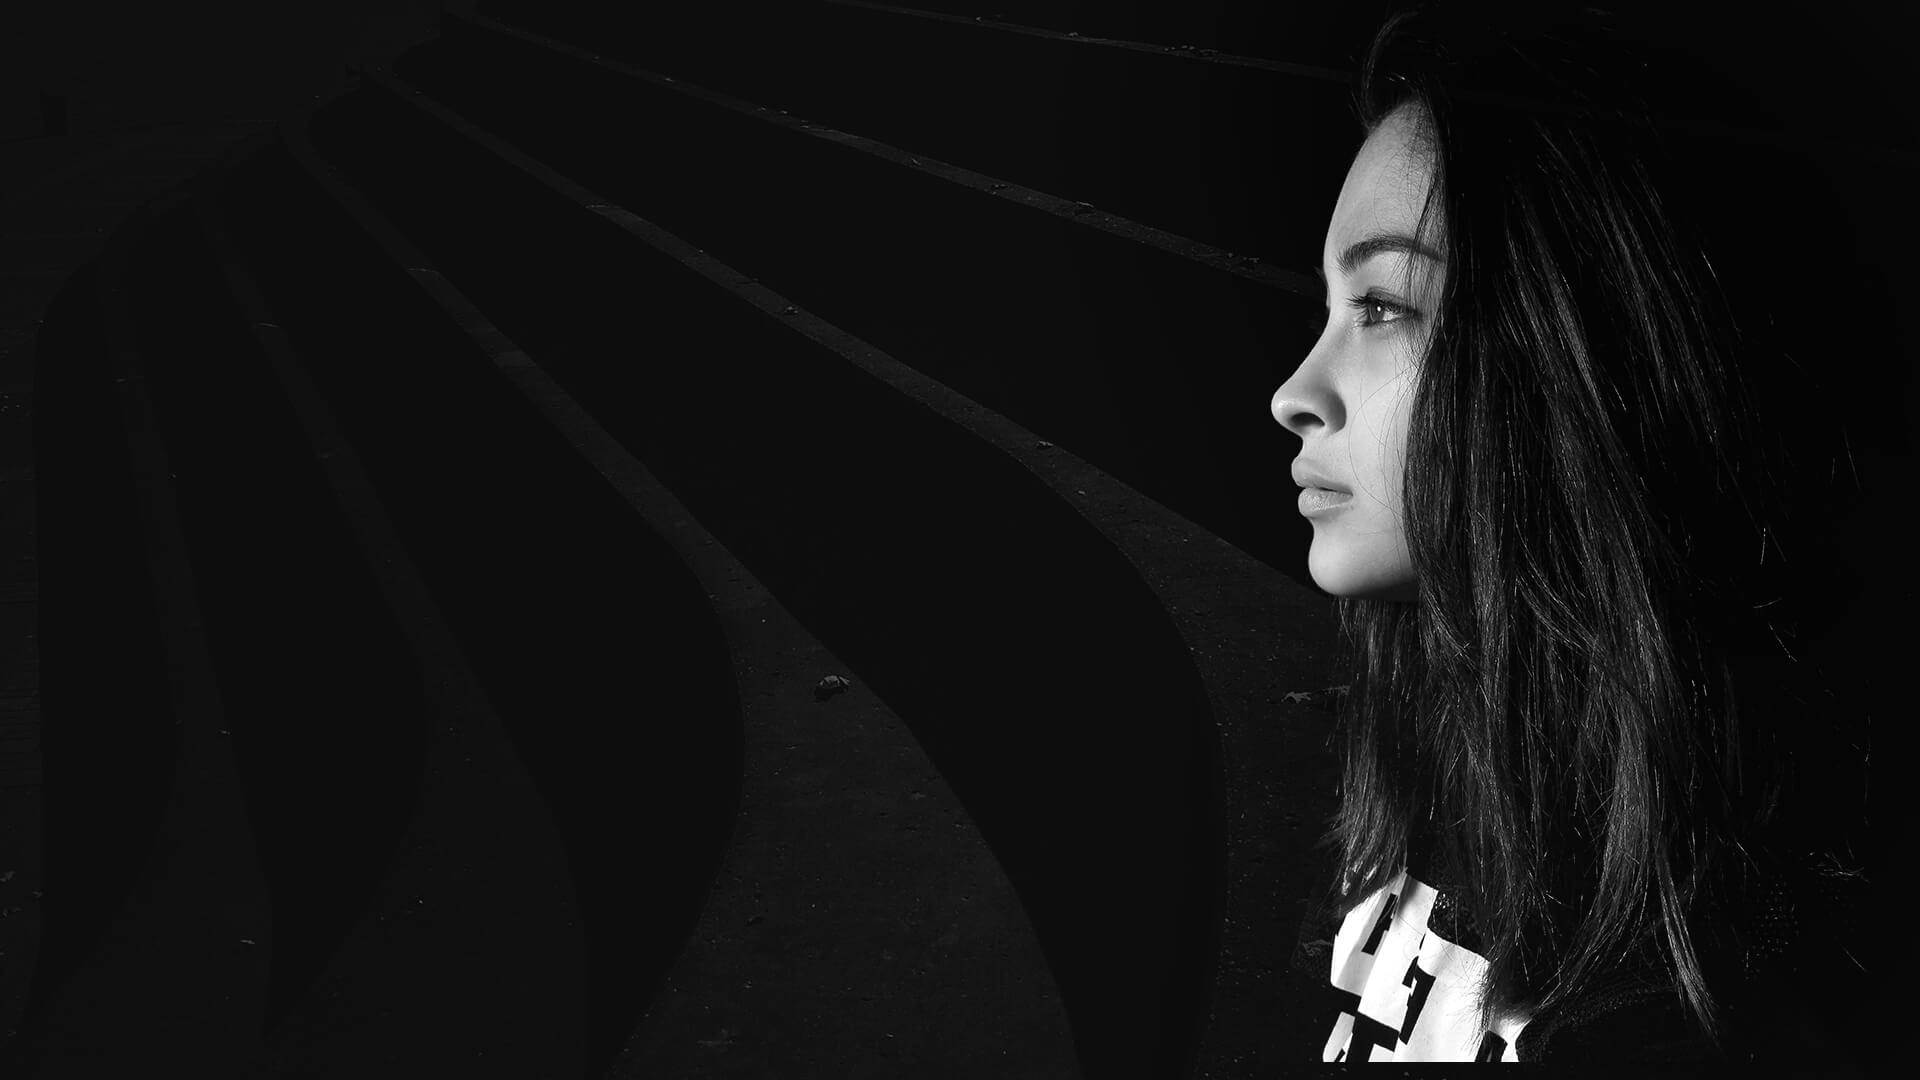
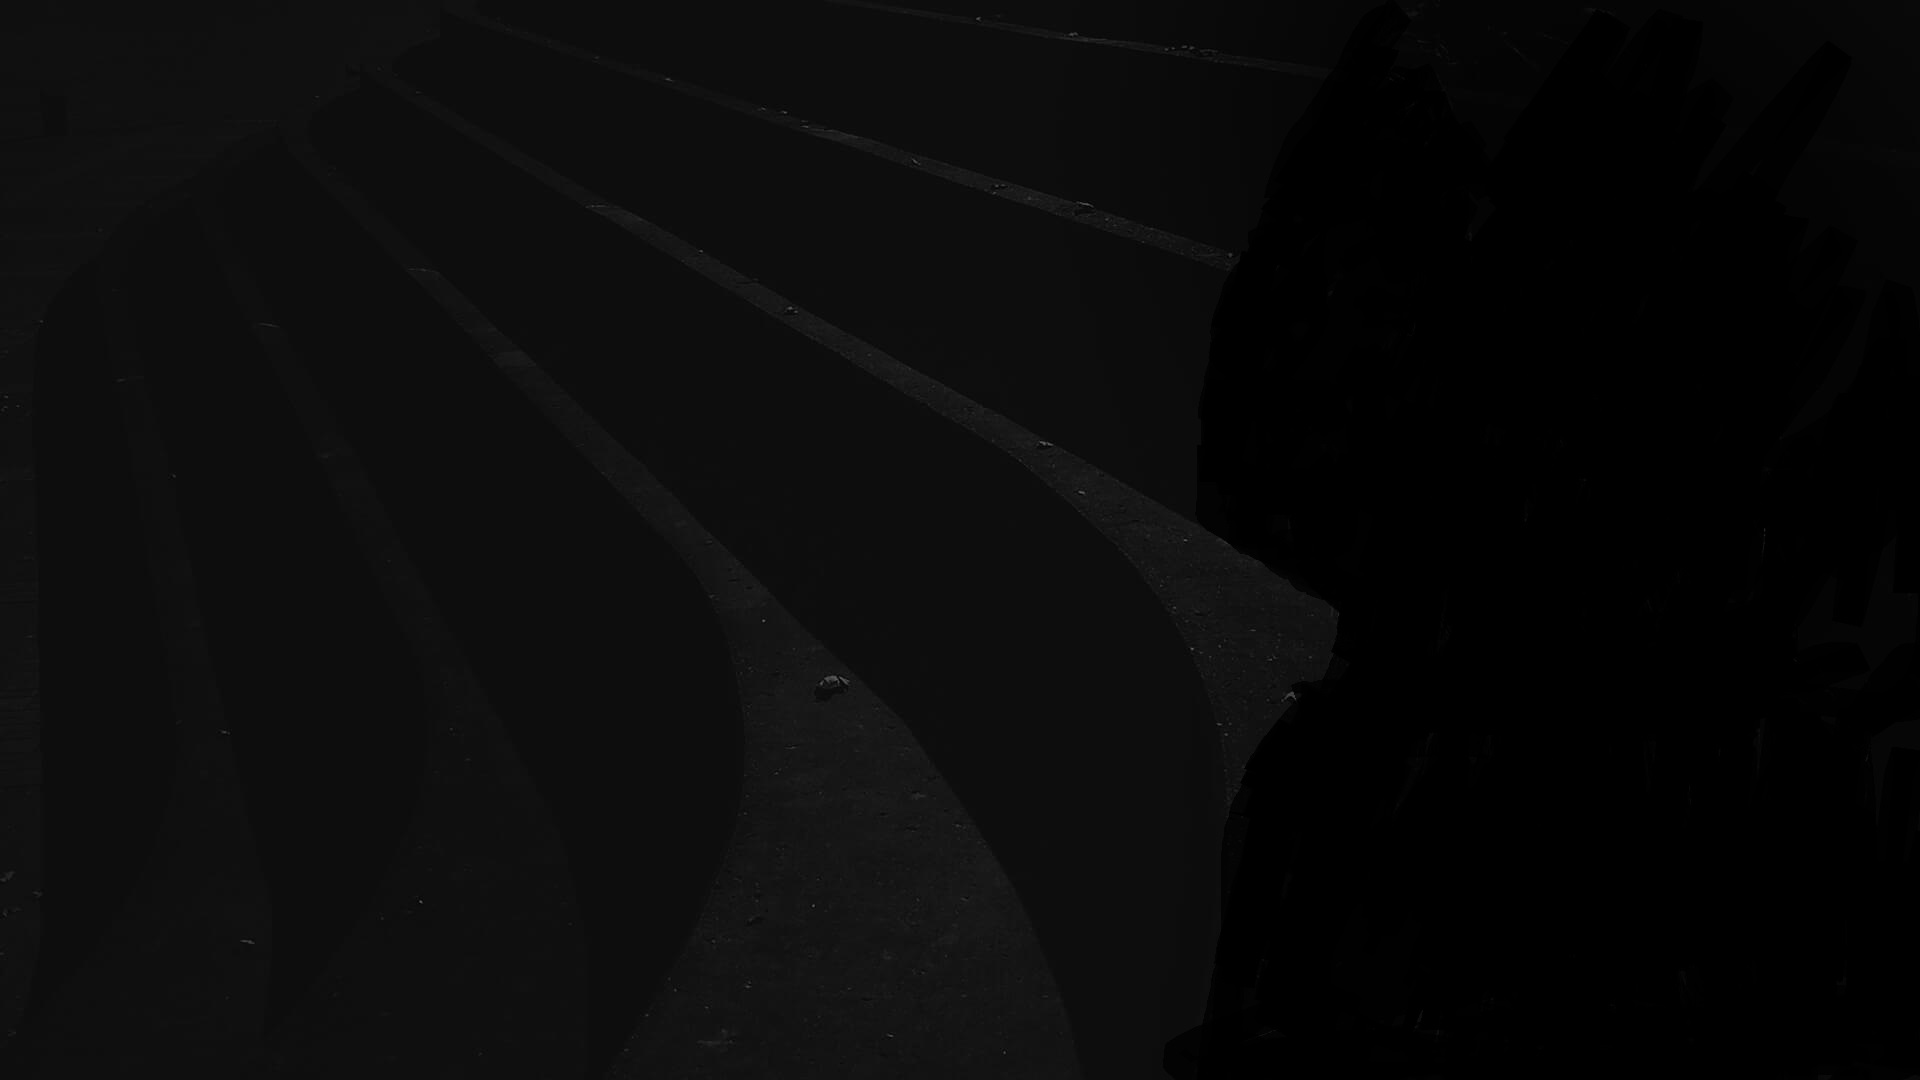
edit some changes

Changed region(s): [[0.6562, 0.0917, 0.9062, 1.0]]

diff --git a/index.html b/index.html
@@ -59,12 +59,12 @@
     <!-- Hero Section -->
     <section id="hero" class="hero section dark-background">
 
-      <img src="assets/img/hero-bg.jpg" alt="" data-aos="fade-in">
+      <img src="assets/img/hero.jpg" alt="" data-aos="fade-in">
 
       <div class="container" data-aos="zoom-out" data-aos-delay="100">
         <h2>LUCKY SALAWU</h2>
         <p>I'm <span class="typed" data-typed-items="Software Engineer,
-          Backend Developer, Mobile Developer, Web App Developer, Website Developer">Designer</span><span class="typed-cursor typed-cursor--blink"></span></p>
+          Backend Developer, Web App Developer, Website Developer">Designer</span><span class="typed-cursor typed-cursor--blink"></span></p>
         <div class="social-links">
           <a href="https://x.com/SalawuLucky5"><i class="bi bi-twitter-x"></i></a>
           <a href="https://wa.me/2348064160380"><i class="bi bi-whatsapp"></i></a>
@@ -99,7 +99,7 @@
 
         <div class="row gy-4 justify-content-center">
           <div class="col-lg-4">
-            <img src="assets/img/profile-img.jpg" class="img-fluid" alt="">
+            <img src="assets/img/profile.jpeg" class="img-fluid" alt="">
           </div>
           <div class="col-lg-8 content">
             <h2>Software Engineer,
@@ -107,17 +107,17 @@
             <div class="row mt-4">
               <div class="col-lg-6">
                 <ul>
-                  <li><i class="bi bi-chevron-right"></i> <strong>Birthday:</strong> <span>07 February, 1999 </span></li>
-                  <li><i class="bi bi-chevron-right"></i> <strong>Marital Status:</strong> <span>Single</span></li>
+                  <!-- <li><i class="bi bi-chevron-right"></i> <strong>Birthday:</strong> <span>07 February, 1999 </span></li> -->
+                  <!-- <li><i class="bi bi-chevron-right"></i> <strong>Marital Status:</strong> <span>Single</span></li> -->
+                  <li><i class="bi bi-chevron-right"></i> <strong>Email:</strong> <span>salawulucky08071@gmail.com</span></li>
                   <li><i class="bi bi-chevron-right"></i> <strong>Phone:</strong> <span>+234 806 4160 380</span></li>
-                  <li><i class="bi bi-chevron-right"></i> <strong>City:</strong> <span>Ondo, Akure Nigeria.</span></li>
+                  <!-- <li><i class="bi bi-chevron-right"></i> <strong>City:</strong> <span>Ondo, Akure Nigeria.</span></li> -->
                 </ul>
               </div>
               <div class="col-lg-6">
                 <ul>
                   <li><i class="bi bi-chevron-right"></i> <strong>Address:</strong> <span>No 90, Oba ile housing Estate, Akure, Nigeria.</span></li>
-                  <li><i class="bi bi-chevron-right"></i> <strong>Degree:</strong> <span>HND</span></li>
-                  <li><i class="bi bi-chevron-right"></i> <strong>Email:</strong> <span>salawulucky08071@gmail.com</span></li>
+                  <!-- <li><i class="bi bi-chevron-right"></i> <strong>Degree:</strong> <span>HND</span></li> -->
                   <li><i class="bi bi-chevron-right"></i> <strong>Freelance:</strong> <span>Available</span></li>
                 </ul>
               </div>
@@ -491,31 +491,9 @@
             </div>
           </div><!-- End Service Item -->
 
-          <div class="col-lg-4 col-md-6" data-aos="fade-up" data-aos-delay="300">
-            <div class="service-item position-relative">
-              <div class="icon">
-                <i class="bi bi-activity"></i>
-              </div>
-              
-                <h3>Web Application Development</h3>
-                <p>
-                  I specialize in developing responsive and secure web applications, ensuring that they are tailored to meet user requirements and provide seamless experiences across devices. From front-end to back-end, I build complete web solutions.
-                </p>
-            </div>
-          </div><!-- End Service Item -->
+        
 
-          <div class="col-lg-4 col-md-6" data-aos="fade-up" data-aos-delay="300">
-            <div class="service-item position-relative">
-              <div class="icon">
-                <i class="bi bi-activity"></i>
-              </div>
-              
-                <h3>Web Application Development</h3>
-                <p>
-                  I specialize in developing responsive and secure web applications, ensuring that they are tailored to meet user requirements and provide seamless experiences across devices. From front-end to back-end, I build complete web solutions.
-                </p>
-            </div>
-          </div><!-- End Service Item -->
+
 
         </div>
 
